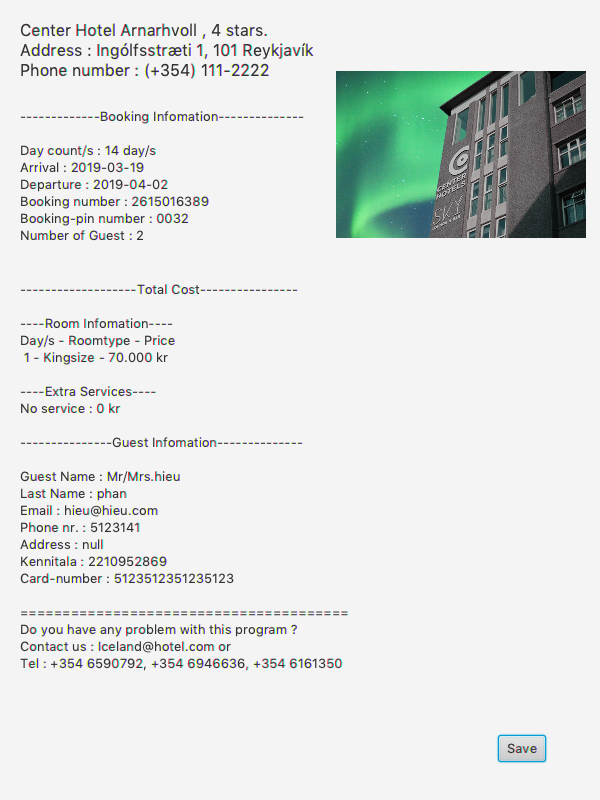
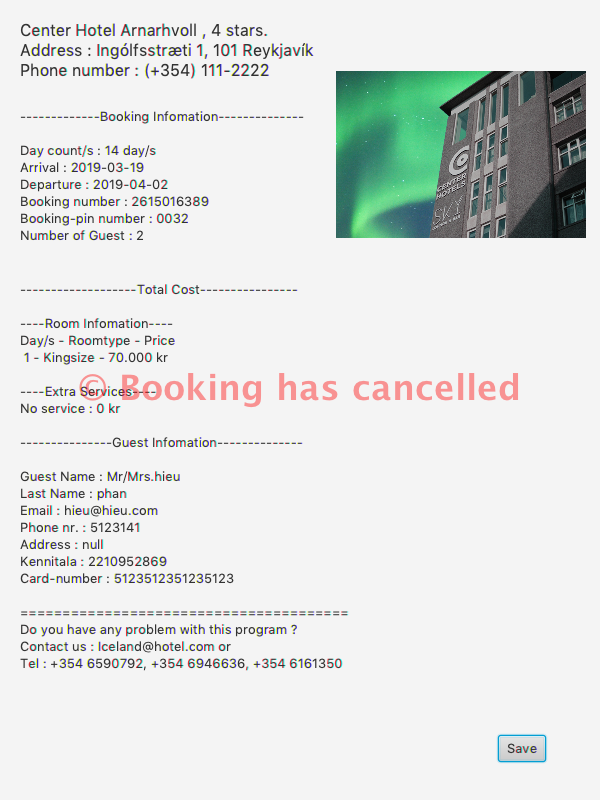
Mikið breyta

Changed region(s): [[0.12, 0.4688, 0.87, 0.5]]

diff --git a/src/is/hi/hbv/utlit/booking2Controller.java b/src/is/hi/hbv/utlit/booking2Controller.java
@@ -1,14 +1,22 @@
 package is.hi.hbv.utlit;
 
+import javafx.application.Platform;
 import javafx.event.ActionEvent;
 import javafx.fxml.FXML;
+import javafx.fxml.FXMLLoader;
 import javafx.fxml.Initializable;
+import javafx.scene.Node;
+import javafx.scene.Parent;
+import javafx.scene.Scene;
 import javafx.scene.control.Alert;
 import javafx.scene.control.Button;
 import javafx.scene.control.ButtonType;
+import javafx.scene.control.Tooltip;
 import javafx.scene.image.Image;
 import javafx.scene.image.ImageView;
+import javafx.stage.Stage;
 
+import javax.imageio.ImageIO;
 import java.io.File;
 import java.nio.file.*;
 
@@ -17,6 +25,10 @@ import java.nio.file.Files;
 import java.nio.file.Paths;
 import java.util.Optional;
 import java.util.ResourceBundle;
+import java.awt.*;
+import java.awt.geom.Rectangle2D;
+import java.awt.image.BufferedImage;
+import java.io.IOException;
 
 public class booking2Controller implements Initializable {
 
@@ -27,8 +39,9 @@ public class booking2Controller implements Initializable {
     private Button okID;
 
     @FXML
-    private Button deleteID;
-    private  String booking;
+    private Button cancelBooking;
+    private String booking;
+
     //String img = "is/hi/hbv/utlit/img/Roomimage/boo0king/" + booking + ".png";
     //Image image = new Image("is/hi/hbv/utlit/img/Roomimage/booking/" + booking + ".png");
     public void setText12 (String BookingID, String PinID) {
@@ -38,24 +51,74 @@ public class booking2Controller implements Initializable {
     }
 
 
-    public void deleteImage(ActionEvent actionEvent){
+    public void cancelBookingID(ActionEvent actionEvent) throws IOException {
 
         Alert alert = new Alert(Alert.AlertType.CONFIRMATION);
         alert.setTitle("Confirmation Dialog");
         alert.setHeaderText("Warning !");
         alert.setContentText("Are you sure you want to cancel this reversation ?");
 
+        String text = "Booking has cancelled \u2122";
+        File input = new File("src/is/hi/hbv/utlit/img/Roomimage/booking/" + booking + ".png");
+        File output = new File("src/is/hi/hbv/utlit/img/Roomimage/booking/" + booking + ".png");
         Optional<ButtonType> result = alert.showAndWait();
         if (result.get() == ButtonType.OK) {
-            deleteDir(new File( "src/is/hi/hbv/utlit/img/Roomimage/booking/" + booking + ".png"));
+            addTextWatermark(text, "png", input, output);
         }
+
+        //  Ætlar bara eyðar booking myndir fyrst EN fann hinn aðferð geggjað !!!
+        //  þetta samt virka mjög vel
+        //
+        //Optional<ButtonType> result = alert.showAndWait();
+        //if (result.get() == ButtonType.OK) {
+        //    deleteDir(new File( "src/is/hi/hbv/utlit/img/Roomimage/booking/" + booking + ".png"));
+        //}
+        // adding text as overlay to an image
+
+
     }
+
+    //  Þetta aðferð eyða selected myndum !!!
     public static boolean deleteDir(File dir) {
         return dir.delete();
     }
 
+    private static void addTextWatermark(String text, String type, File source, File destination) throws IOException {
+        BufferedImage image = ImageIO.read(source);
+
+        // determine image type and handle correct transparency
+        int imageType = "png".equalsIgnoreCase(type) ? BufferedImage.TYPE_INT_ARGB : BufferedImage.TYPE_INT_RGB;
+        BufferedImage watermarked = new BufferedImage(image.getWidth(), image.getHeight(), imageType);
+
+        // initializes necessary graphic properties
+        Graphics2D w = (Graphics2D) watermarked.getGraphics();
+        w.drawImage(image, 0, 0, null);
+        AlphaComposite alphaChannel = AlphaComposite.getInstance(AlphaComposite.SRC_OVER, 0.4f);
+        w.setComposite(alphaChannel);
+        w.setColor(Color.RED);
+        w.setFont(new Font(Font.SANS_SERIF, Font.BOLD, 40));
+        FontMetrics fontMetrics = w.getFontMetrics();
+        Rectangle2D rect = fontMetrics.getStringBounds(text, w);
+
+        // calculate center of the image
+        int centerX = (image.getWidth() - (int) rect.getWidth()) / 2;
+        int centerY = image.getHeight() / 2;
+
+        // add text overlay to the image
+        w.drawString(text, centerX, centerY);
+        ImageIO.write(watermarked, type, destination);
+        w.dispose();
+    }
+
+    public void closeAction(ActionEvent actionEvent) {
+        Stage main_stage = (Stage) ((Node) actionEvent.getSource()).getScene().getWindow();
+        main_stage.close();
+    }
+
     @Override
     public void initialize(URL location, ResourceBundle resources) {
-
+        okID.setTooltip(new Tooltip("Close this window"));
+        cancelBooking.setTooltip(new Tooltip("Cancel this reservation"));
     }
+
 }

diff --git a/src/is/hi/hbv/utlit/bookingController.java b/src/is/hi/hbv/utlit/bookingController.java
@@ -1,23 +1,17 @@
 package is.hi.hbv.utlit;
 
-import is.hi.hbv.vinnsla.HotelsDAO;
 import javafx.event.ActionEvent;
 import javafx.fxml.FXML;
 import javafx.fxml.FXMLLoader;
 import javafx.fxml.Initializable;
-import javafx.scene.Node;
 import javafx.scene.Parent;
 import javafx.scene.Scene;
-import javafx.scene.control.Alert;
 import javafx.scene.control.Button;
 import javafx.scene.control.Tooltip;
 import javafx.stage.Stage;
 
 import java.io.IOException;
 import java.net.URL;
-import java.nio.file.Files;
-import java.nio.file.Path;
-import java.nio.file.Paths;
 import java.sql.*;
 import java.util.ResourceBundle;
 import java.util.logging.Level;
@@ -81,16 +75,8 @@ public class bookingController implements Initializable {
     }
 
     public void confirm(ActionEvent actionEvent) throws IOException {
-        //Parent home_page_parent =  FXMLLoader.load(getClass().getResource("Intro.fxml"));
-        //Scene home_page_scene = new Scene(home_page_parent);
-        //Stage app_stage = (Stage) ((Node)actionEvent.getSource()).getScene().getWindow();
-
         if (isValidCredentials())
         {
-            /*
-            app_stage.hide(); //optional
-            app_stage.setScene(home_page_scene);
-            app_stage.show();*/
             // Aðferð að kalla gögna frá annara scene, ekki saman við aðra aðferð.
             FXMLLoader Loader = new FXMLLoader();
             Loader.setLocation(getClass().getResource("booking2.fxml"));
@@ -119,7 +105,7 @@ public class bookingController implements Initializable {
     public void initialize(URL location, ResourceBundle resources) {
         isValidCredentials();
         bookingID.setTooltip(new Tooltip("Please enter your Booking ID from last payment"));
-        pinID.setTooltip(new Tooltip("PPlease enter your Pin ID from last payment"));
+        pinID.setTooltip(new Tooltip("Please enter your Pin ID from last payment"));
         confirmID.setTooltip(new Tooltip("Go to booking manage"));
     }
 }

diff --git a/src/is/hi/hbv/utlit/MailListController.java b/src/is/hi/hbv/utlit/MailListController.java
@@ -2,13 +2,14 @@ package is.hi.hbv.utlit;
 
 import javafx.fxml.FXML;
 import javafx.fxml.Initializable;
-import javafx.scene.control.ButtonBar;
-import javafx.scene.control.ButtonType;
-import javafx.scene.control.Dialog;
-import javafx.scene.control.DialogPane;
+import javafx.scene.control.*;
 import javafx.scene.layout.AnchorPane;
 
 import java.net.URL;
+import java.sql.Connection;
+import java.sql.DriverManager;
+import java.sql.PreparedStatement;
+import java.sql.SQLException;
 import java.util.ResourceBundle;
 
 public class MailListController implements Initializable {
@@ -21,7 +22,7 @@ public class MailListController implements Initializable {
 
     }
 
-    public void mailDialog() {
+    public void mailDialog(String mailID) {
         // Innihald dialogs búið til
         DialogPane p = new DialogPane();
         nmailDialog.setVisible(true);
@@ -36,6 +37,16 @@ public class MailListController implements Initializable {
         d.setDialogPane(p);
         // Haus og titill
         d.setTitle("Thank you for registering!");
+
+        String sql = "INSERT INTO Mail(Maillist) VALUES(?)";
+        String url = "jdbc:sqlite:hotels.db";
+        try (Connection conn = DriverManager.getConnection(url);
+             PreparedStatement pstmt = conn.prepareStatement(sql)) {
+            pstmt.setString(1, mailID);
+            pstmt.executeUpdate();
+        } catch (SQLException e) {
+            System.out.println(e.getMessage()+" help me");
+        }
 
         // Hnappur til að loka glugga búinn til og bætt við
         ButtonType close = new ButtonType("Close",

diff --git a/src/is/hi/hbv/utlit/searchController.java b/src/is/hi/hbv/utlit/searchController.java
@@ -68,6 +68,8 @@ public class searchController implements Initializable {
     public RadioButton starRadio; // Radiobutton til að sortera eftir fjölda stjarna
     @FXML
     private MailListController mailListController; // Tilvik fyrir póstlista dialog controller
+    @FXML
+    public TextField mailID; // Lesa inn email texta
 
     Hotel chosenHotel; // Valið hótel (herbergi) í lista - object
 
@@ -150,7 +152,7 @@ public class searchController implements Initializable {
     }
     // Birtir glugga til að skrá sig á póstlista
     public void mailListDialogHandler(ActionEvent actionEvent) {
-        mailListController.mailDialog();
+        mailListController.mailDialog(mailID.getText());
     }
 
     /*

diff --git a/src/is/hi/hbv/utlit/introController.java b/src/is/hi/hbv/utlit/introController.java
@@ -111,12 +111,11 @@ public class introController implements Initializable {
         alert.setTitle("Iceland Hotel");
         alert.setContentText("This project is called Iceland Hotel\n"+
                 "This is final project for HBV-401G\n" +
-                "Authors : Sunna Björnsdóttir - something@hi.is\n" +
+                "Authors : Sunna Björnsdóttir - sub4@hi.is\n" +
                 "Þórdís Pétursdóttir - thp44@hi.is\n" +
                 "Hieu Van Phan - hvp5@hi.is\n" +
                 "\n"
         );
-
         alert.showAndWait();
     }
 

diff --git a/src/is/hi/hbv/utlit/confirmController.java b/src/is/hi/hbv/utlit/confirmController.java
@@ -140,7 +140,7 @@ public class confirmController implements Initializable {
                 ImageIO.write(SwingFXUtils.fromFXImage(i, null), "png", file);
         }
 
-        //vista
+        //vista í resource mappa til að forrit geta sækja seinna bóoking og afbóka :D
         ImageIO.write(SwingFXUtils.fromFXImage(i, null), "png",
                 new File("src/is/hi/hbv/utlit/img/Roomimage/booking/"+book+".png"));
 
